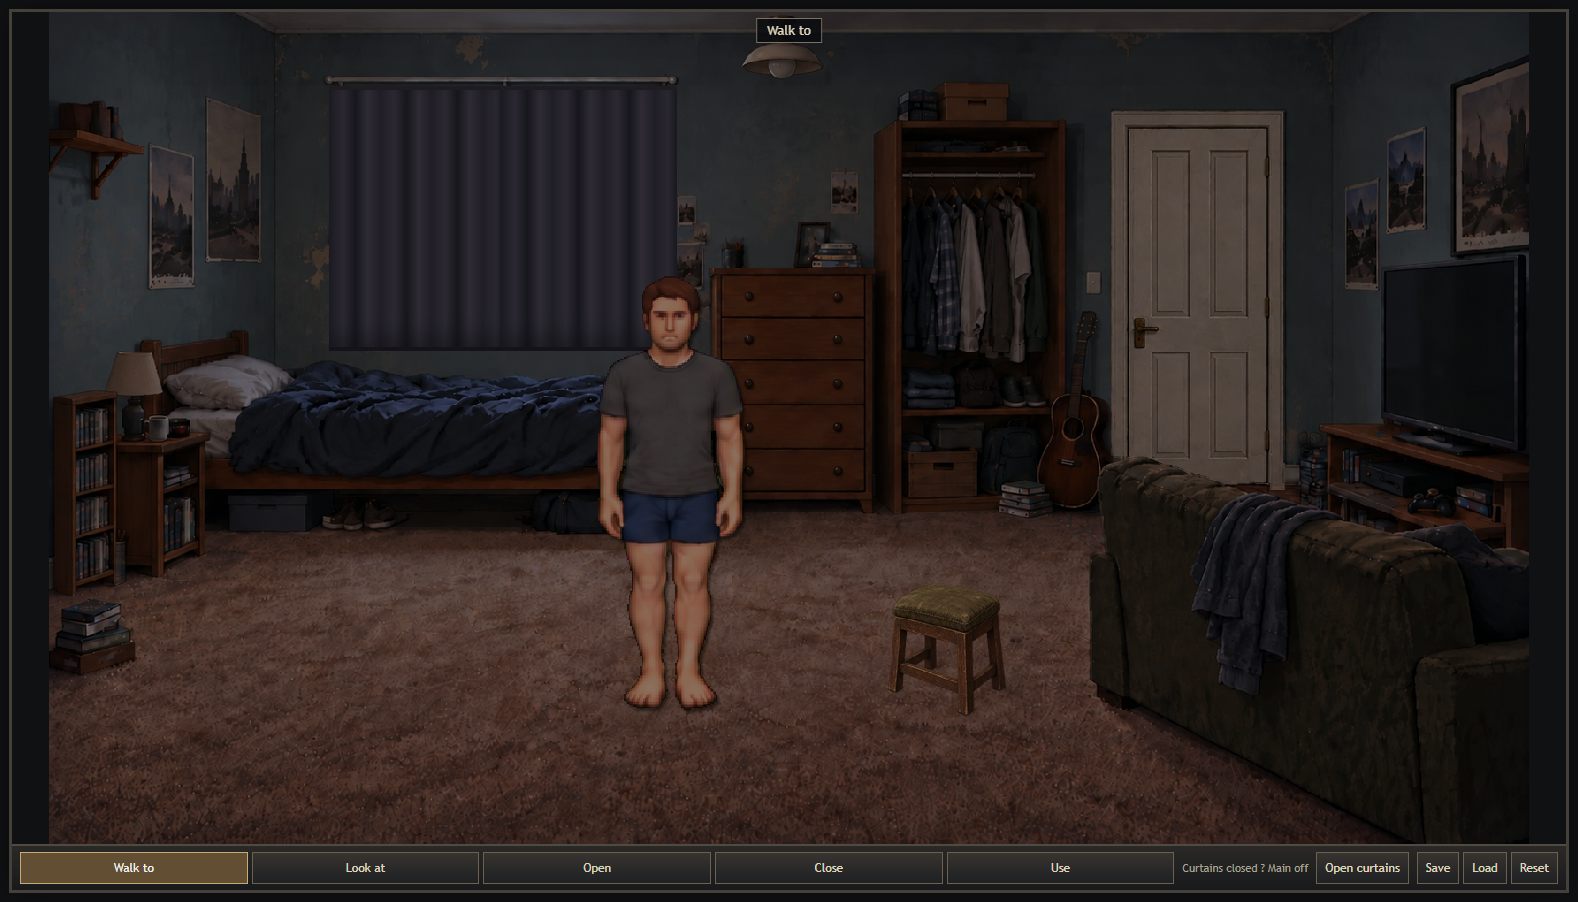
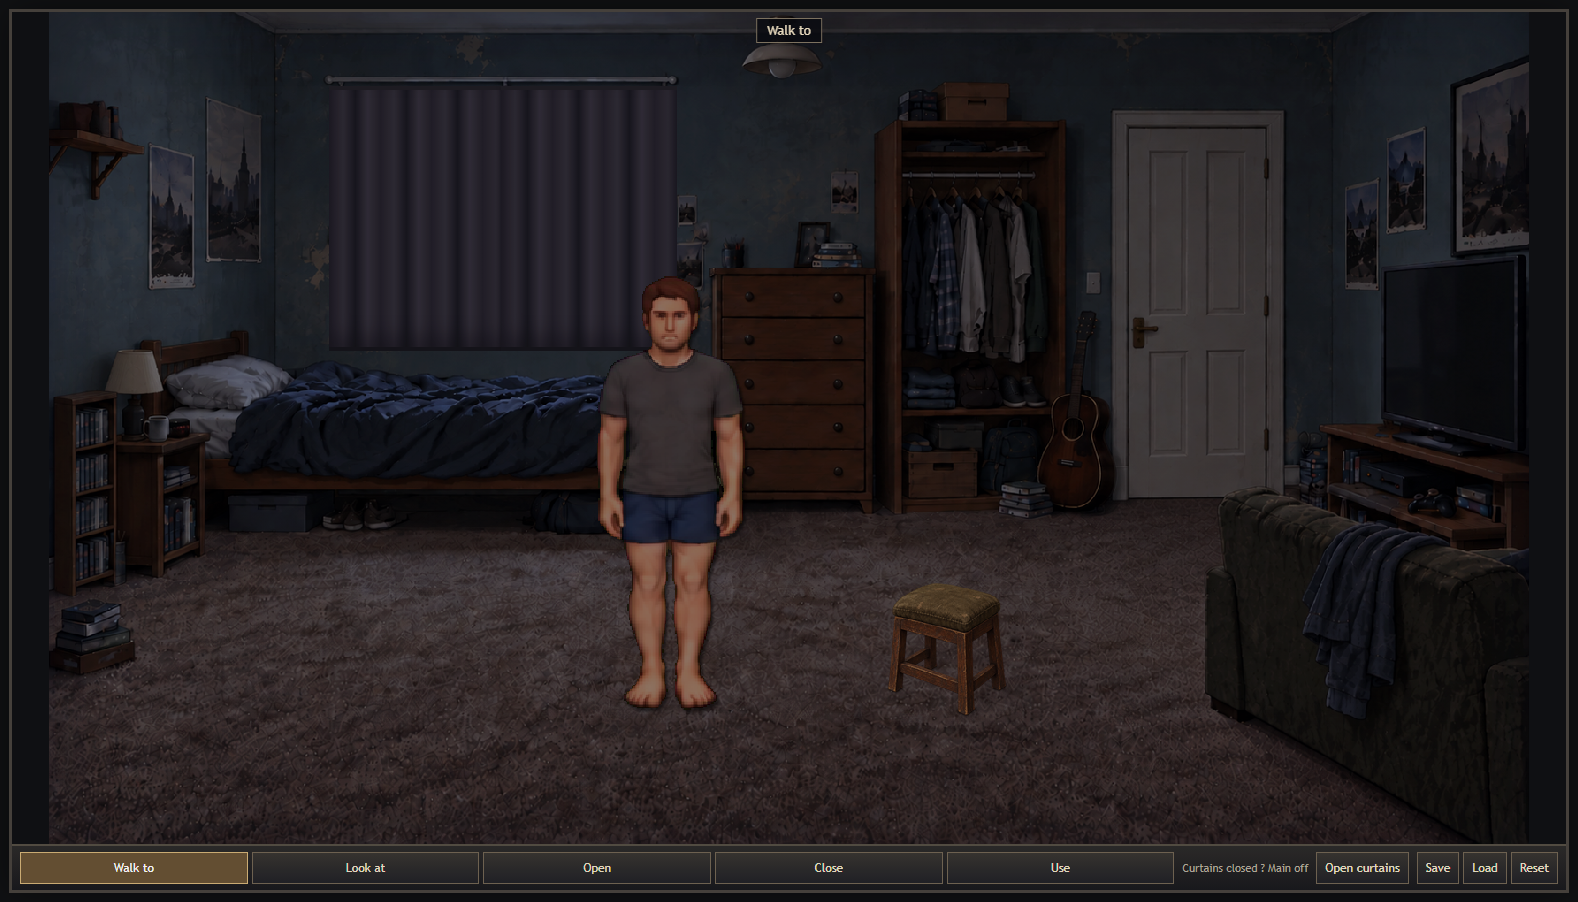
Regenerate bedroom scene and lighting states

diff --git a/game.js b/game.js
@@ -80,8 +80,8 @@ const bedroomObjects = {
   bed: { name: 'bed', area: [8, 40, 36, 24], walk: [28, 72], description: 'A single bed, an unmade duvet, and a pillow that has seen better mornings.' },
   drawers: { name: 'chest of drawers', area: [44.5, 31, 11, 30], walk: [49, 69], description: 'The drawers at the foot of the bed hold T-shirts, socks, and the odd forgotten cable.' },
   cupboard: { name: 'cupboard', area: [56, 12, 12, 49], walk: [61, 69], description: 'Shirts hang from mismatched hangers. Folded clothes and shoes fill the shelves below.' },
-  door: { ...door('living room door', [72.8,14,9.5,42.5], [68,69], 'living', 'bedroomDoor'), panel: [72.9067,13.9214,9.4498,42.6142], hinge: 'right', foreground: 'bedroom-couch' },
-  couch: { name: 'couch', area: [70.5, 61, 29, 31], walk: [67, 81], description: 'A well-worn couch facing the TV. The blanket has claimed one end.' },
+  door: { ...door('living room door', [72.8,14,9.5,42.5], [68,69], 'living', 'bedroomDoor'), panel: [72.9067,13.9214,9.4498,42.6142], hinge: 'right' },
+  couch: { name: 'couch', area: [78.5, 57, 21.5, 38], walk: [72, 81], description: 'A shortened well-worn couch facing the TV. The blanket has claimed one end.' },
   tv: { name: 'TV', area: [89.8, 29, 10, 23], walk: [67, 76], description: 'The TV sits against the right wall, within easy reach of the couch.' },
   console: { name: 'gaming console', area: [87, 52, 12, 9], walk: [67, 76], description: 'A console, a controller, and several games you keep meaning to finish.' },
   guitar: { name: 'guitar', area: [66.5, 33, 5, 27], walk: [66, 69], description: 'An acoustic guitar leaning beside the cupboard. It could use a little practice.' },
@@ -220,7 +220,7 @@ function curtainLightLevel(roomId = gameState.currentRoom) {
 
 function roomImageForState(roomId = gameState.currentRoom, state = gameState) {
   const bit = value => value ? 1 : 0;
-  if (roomId === 'bedroom') return `assets/lighting/bedroom-states-v12/bedroom-c${bit(state.curtainsOpen)}-l${bit(state.lampOn)}-m${bit(state.bedroomMainLightOn)}.png`;
+  if (roomId === 'bedroom') return `assets/lighting/bedroom-states-v13/bedroom-c${bit(state.curtainsOpen)}-l${bit(state.lampOn)}-m${bit(state.bedroomMainLightOn)}.png`;
   if (roomId === 'living') return `assets/lighting/hard-states-v7/living-c${bit(state.livingCurtainsOpen)}-m${bit(state.livingMainLightOn)}-b${bit(state.kitchenLightsOn)}-h${bit(state.hallwayLightOn)}.png`;
   if (roomId === 'bathroom') return `assets/lighting/hard-states-v7/bathroom-c${bit(state.bathroomCurtainsOpen)}-m${bit(state.bathroomMainLightOn)}.png`;
   return apartmentRooms[roomId].image;
@@ -232,8 +232,7 @@ function toasterImageForState(state = gameState) {
 }
 
 function bedroomDoorImageForState(state = gameState) {
-  const bit = value => value ? 1 : 0;
-  return `assets/lighting/bedroom-door-states/bedroom-c${bit(state.curtainsOpen)}-l${bit(state.lampOn)}-m${bit(state.bedroomMainLightOn)}.png`;
+  return roomImageForState('bedroom', state);
 }
 
 const decodedRoomImages = new Set();
@@ -267,7 +266,7 @@ function preloadRoomImage(path) {
 }
 
 let activeRoomBackgroundLayer = 0;
-let displayedRoomImage = 'assets/lighting/bedroom-states-v12/bedroom-c0-l1-m0.png';
+let displayedRoomImage = 'assets/lighting/bedroom-states-v13/bedroom-c0-l1-m0.png';
 let activeToasterStateLayer = 0;
 let displayedToasterImage = '';
 const FAST_LIGHT_TRANSITION_MS = 220;

diff --git a/style.css b/style.css
@@ -38,8 +38,8 @@ body.game-started #game { opacity: 1; }
 #sceneViewport { flex: 1; min-height: 0; display: grid; place-items: center; container-type: size; background: #101113; }
 #scene { position: relative; width: min(100cqw, calc(100cqh * 16 / 9)); aspect-ratio: 16 / 9; overflow: hidden; image-rendering: pixelated; cursor: crosshair; }
 #room-art { position: absolute; inset: 0; pointer-events: none; }
-#room-background { position: absolute; inset: 0; z-index: 0; background: #08090b var(--room-image, url('assets/lighting/bedroom-states-v12/bedroom-c0-l1-m0.png')) center / 100% 100% no-repeat; }
-.room-background-layer { position: absolute; inset: 0; background: url('assets/lighting/bedroom-states-v12/bedroom-c0-l1-m0.png') center / 100% 100% no-repeat; opacity: 0; transition: opacity 1.4s cubic-bezier(.45,0,.2,1); will-change: opacity; }
+#room-background { position: absolute; inset: 0; z-index: 0; background: #08090b var(--room-image, url('assets/lighting/bedroom-states-v13/bedroom-c0-l1-m0.png')) center / 100% 100% no-repeat; }
+.room-background-layer { position: absolute; inset: 0; background: url('assets/lighting/bedroom-states-v13/bedroom-c0-l1-m0.png') center / 100% 100% no-repeat; opacity: 0; transition: opacity 1.4s cubic-bezier(.45,0,.2,1); will-change: opacity; }
 .room-background-layer.is-visible { opacity: 1; }
 #living-toaster { display: none; position: absolute; z-index: 2; left: 44.378%; top: 29.331%; width: 4.904%; height: 8.714%; }
 #scene[data-room="living"] #living-toaster:not(.is-taken) { display: block; }

diff --git a/index.html b/index.html
@@ -8,7 +8,7 @@
   <link rel="preload" as="image" href="assets/title-screen-bg.png" />
   <link rel="preload" as="image" href="assets/bedroom_player.png" />
   <link rel="preload" as="image" href="assets/outside_bg.png" />
-  <link rel="preload" as="image" href="assets/lighting/bedroom-states-v12/bedroom-c0-l1-m0.png" />
+  <link rel="preload" as="image" href="assets/lighting/bedroom-states-v13/bedroom-c0-l1-m0.png" />
   <link rel="preload" as="image" href="assets/lighting/hard-states-v7/living-c0-m0-b0-h0.png" />
   <link rel="preload" as="image" href="assets/lighting/hard-states-v7/bathroom-c0-m0.png" />
 </head>

diff --git a/README.md b/README.md
@@ -41,7 +41,8 @@ The title screen's New Game button leads into the bedroom, with closed curtains 
 - `assets/apartment-art-notes.md`: new room artwork prompts and implementation notes
 - `assets/lighting/hard-states-v7/`: 28 versioned, native-resolution hard-rendered room backgrounds and a SHA-256 manifest; the versioned path prevents stale browser-cached lighting art
 - `assets/lighting/bedroom-source-states/`: four full-frame bedroom paintings for every bedside-lamp/main-light combination, with the ceiling fixture and left-of-door switch baked into the artwork
-- `assets/lighting/bedroom-states-v12/`: eight freshly rebuilt native bedroom backgrounds sharing one canonical, newly rendered door-and-frame assembly; all non-door pixels and the foreground couch/chair geometry remain identical across the lighting states
+- `assets/lighting/bedroom-source-v13/`: four native AI-regenerated open-curtain bedroom masters covering every lamp/main-light combination, based on `assets/bedroom_bg.png` with a reversed right-hinged door, integrated ceiling fixture, and shortened couch
+- `assets/lighting/bedroom-states-v13/`: eight native bedroom states derived from the regenerated masters, with the proven curtain layer and exact existing chair retained
 - `assets/lighting/bedroom-door-states/`: eight lighting-matched native 1672-by-941 clean plates used to sample the inner door with exactly the same full-canvas mapping as the correctly aligned living-room side; only the couch-concealed leaf pixels differ
 - `assets/lighting/living-master-v2.png`: the fresh, sharp, floor-lamp-free living-room master shared by every circuit state
 - `assets/lighting/living-light-fields-v2/`: three averaged low-frequency illumination fields for the main, bench and hallway circuits
@@ -51,6 +52,7 @@ The title screen's New Game button leads into the bedroom, with closed curtains 
 - `assets/lighting/bathroom-source-states/`: two full-frame bathroom paintings with the ceiling light genuinely off/on and one lower embedded switch
 - `scripts/build-lighting-states.ps1`: deterministically rebuilds every lighting state from the protected masters and isolated source fixtures without resampling the room art
 - `scripts/build-bedroom-door-states.ps1`: deterministically rebuilds the complete isolated bedroom-door leaves from the native lighting states
+- `scripts/build-bedroom-v13-states.ps1`: composites the existing chair and derives both curtain-light levels from the four regenerated bedroom masters
 - `scripts/build-living-v2-sources.ps1`: rebuilds all eight living circuit sources from the one fixed master and three illumination fields
 - `scripts/verify-toaster-pixels.ps1`: rebuilds and proves that every toaster-free background differs from its original render only inside the approved 82-by-82 counter rectangle
 - `assets/lighting/`: isolated source fixtures and generation notes in `assets/lighting-art-notes.md`
